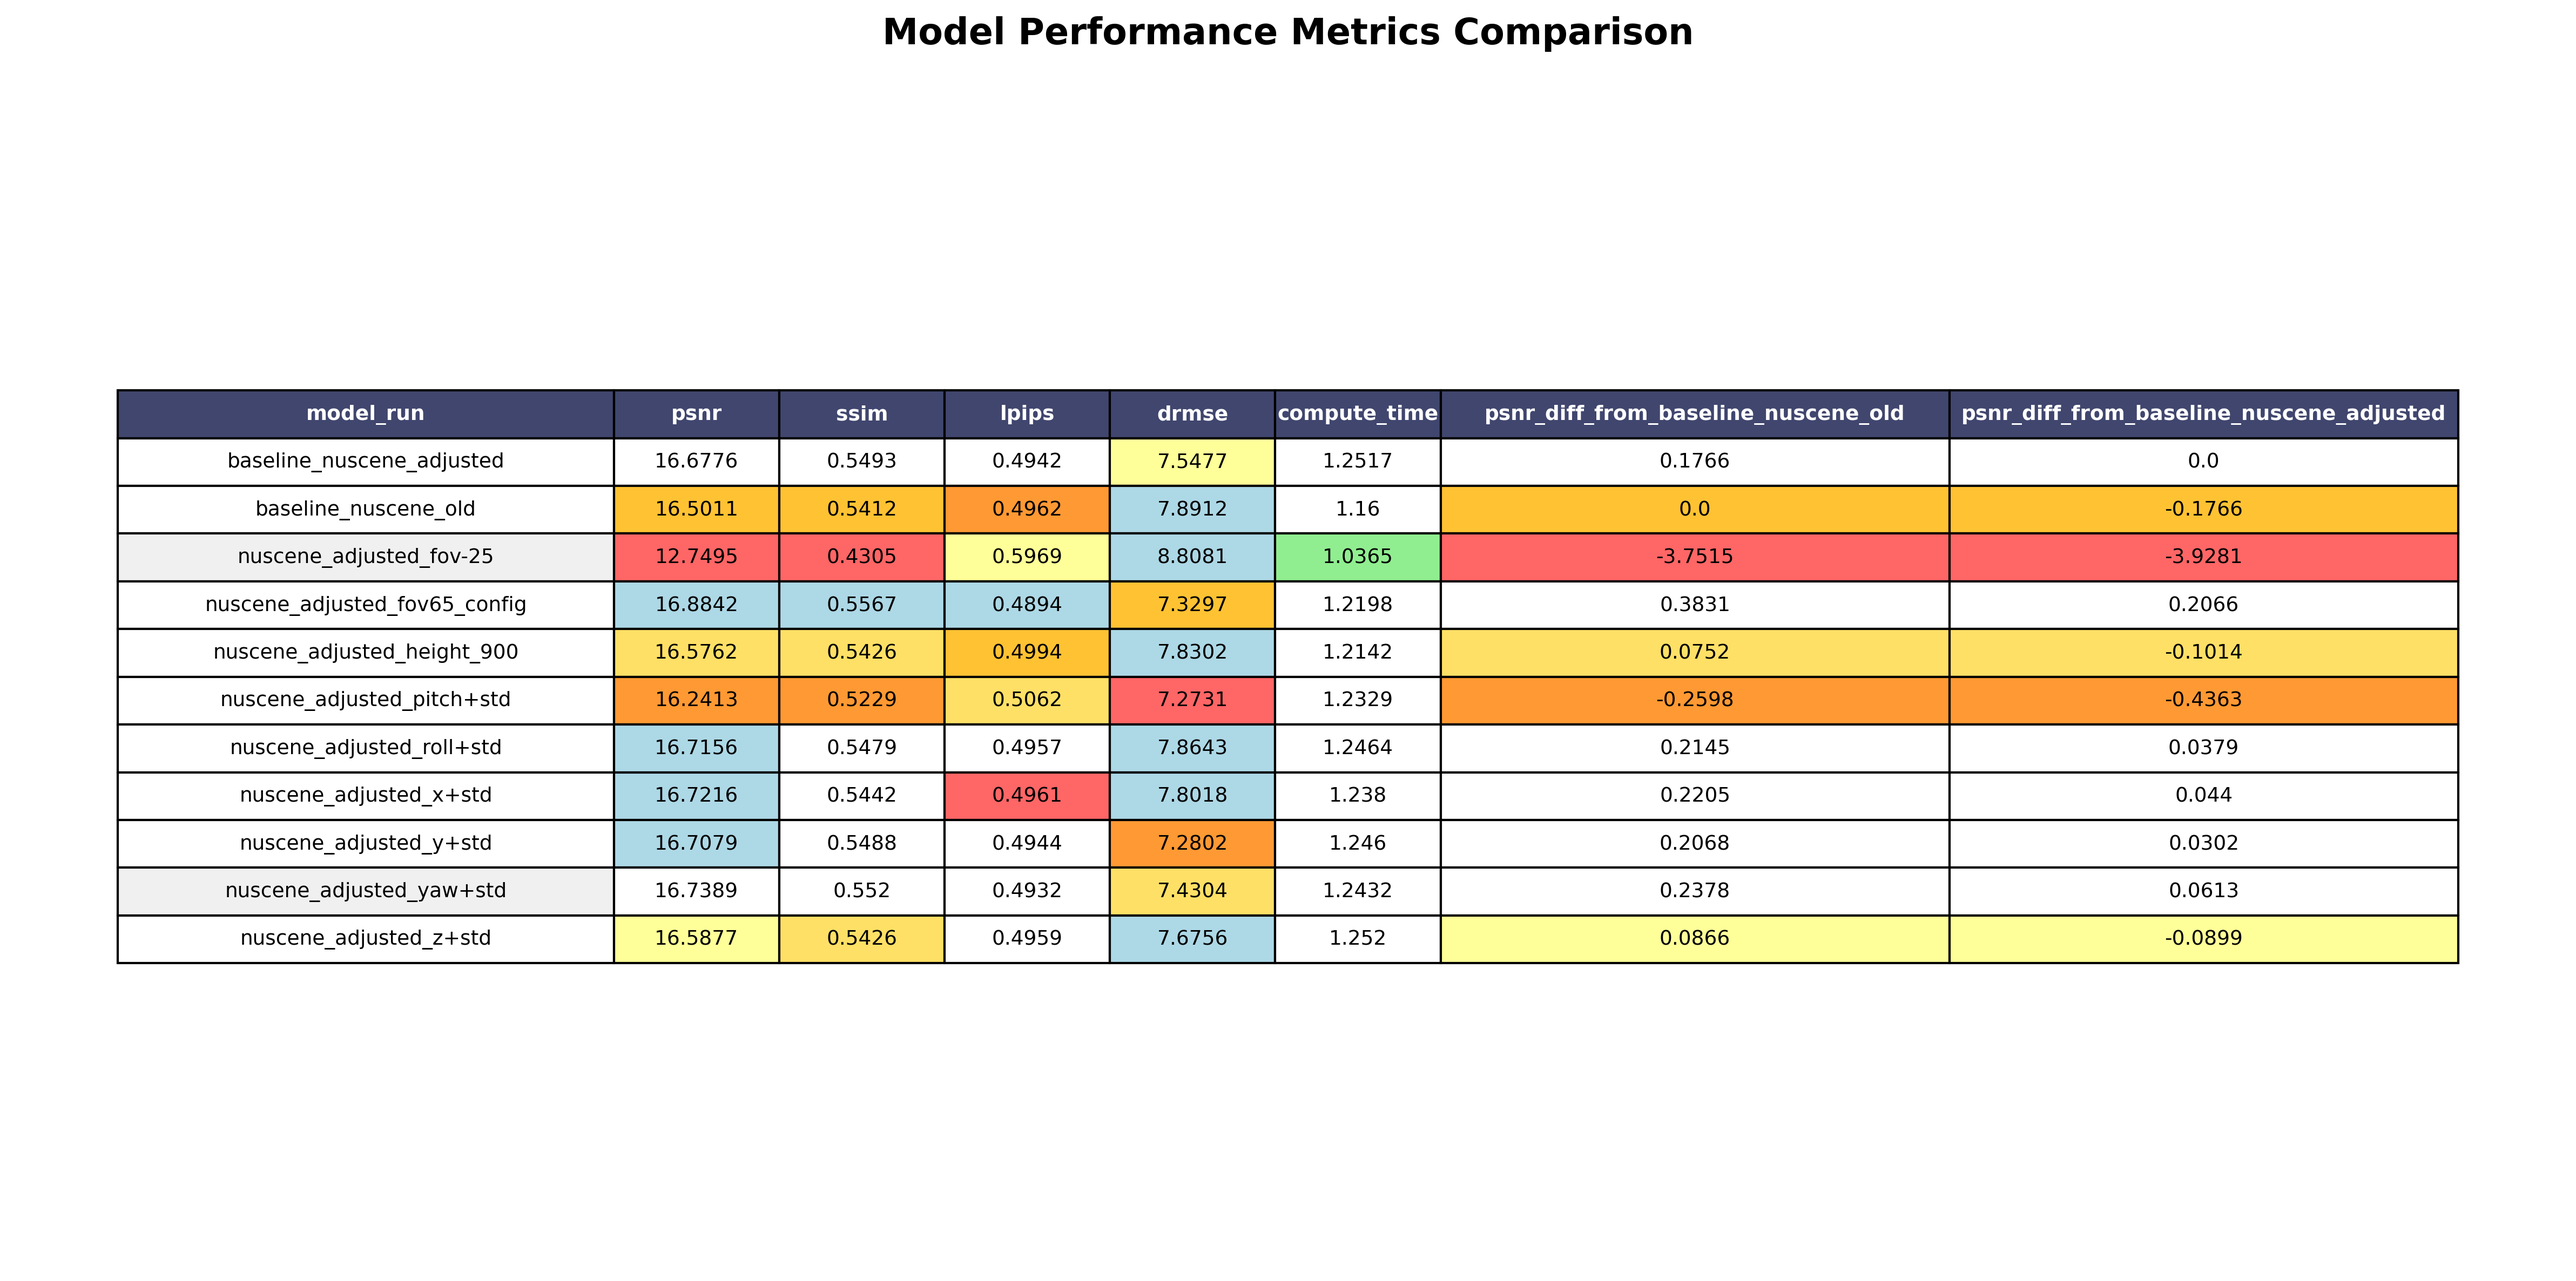
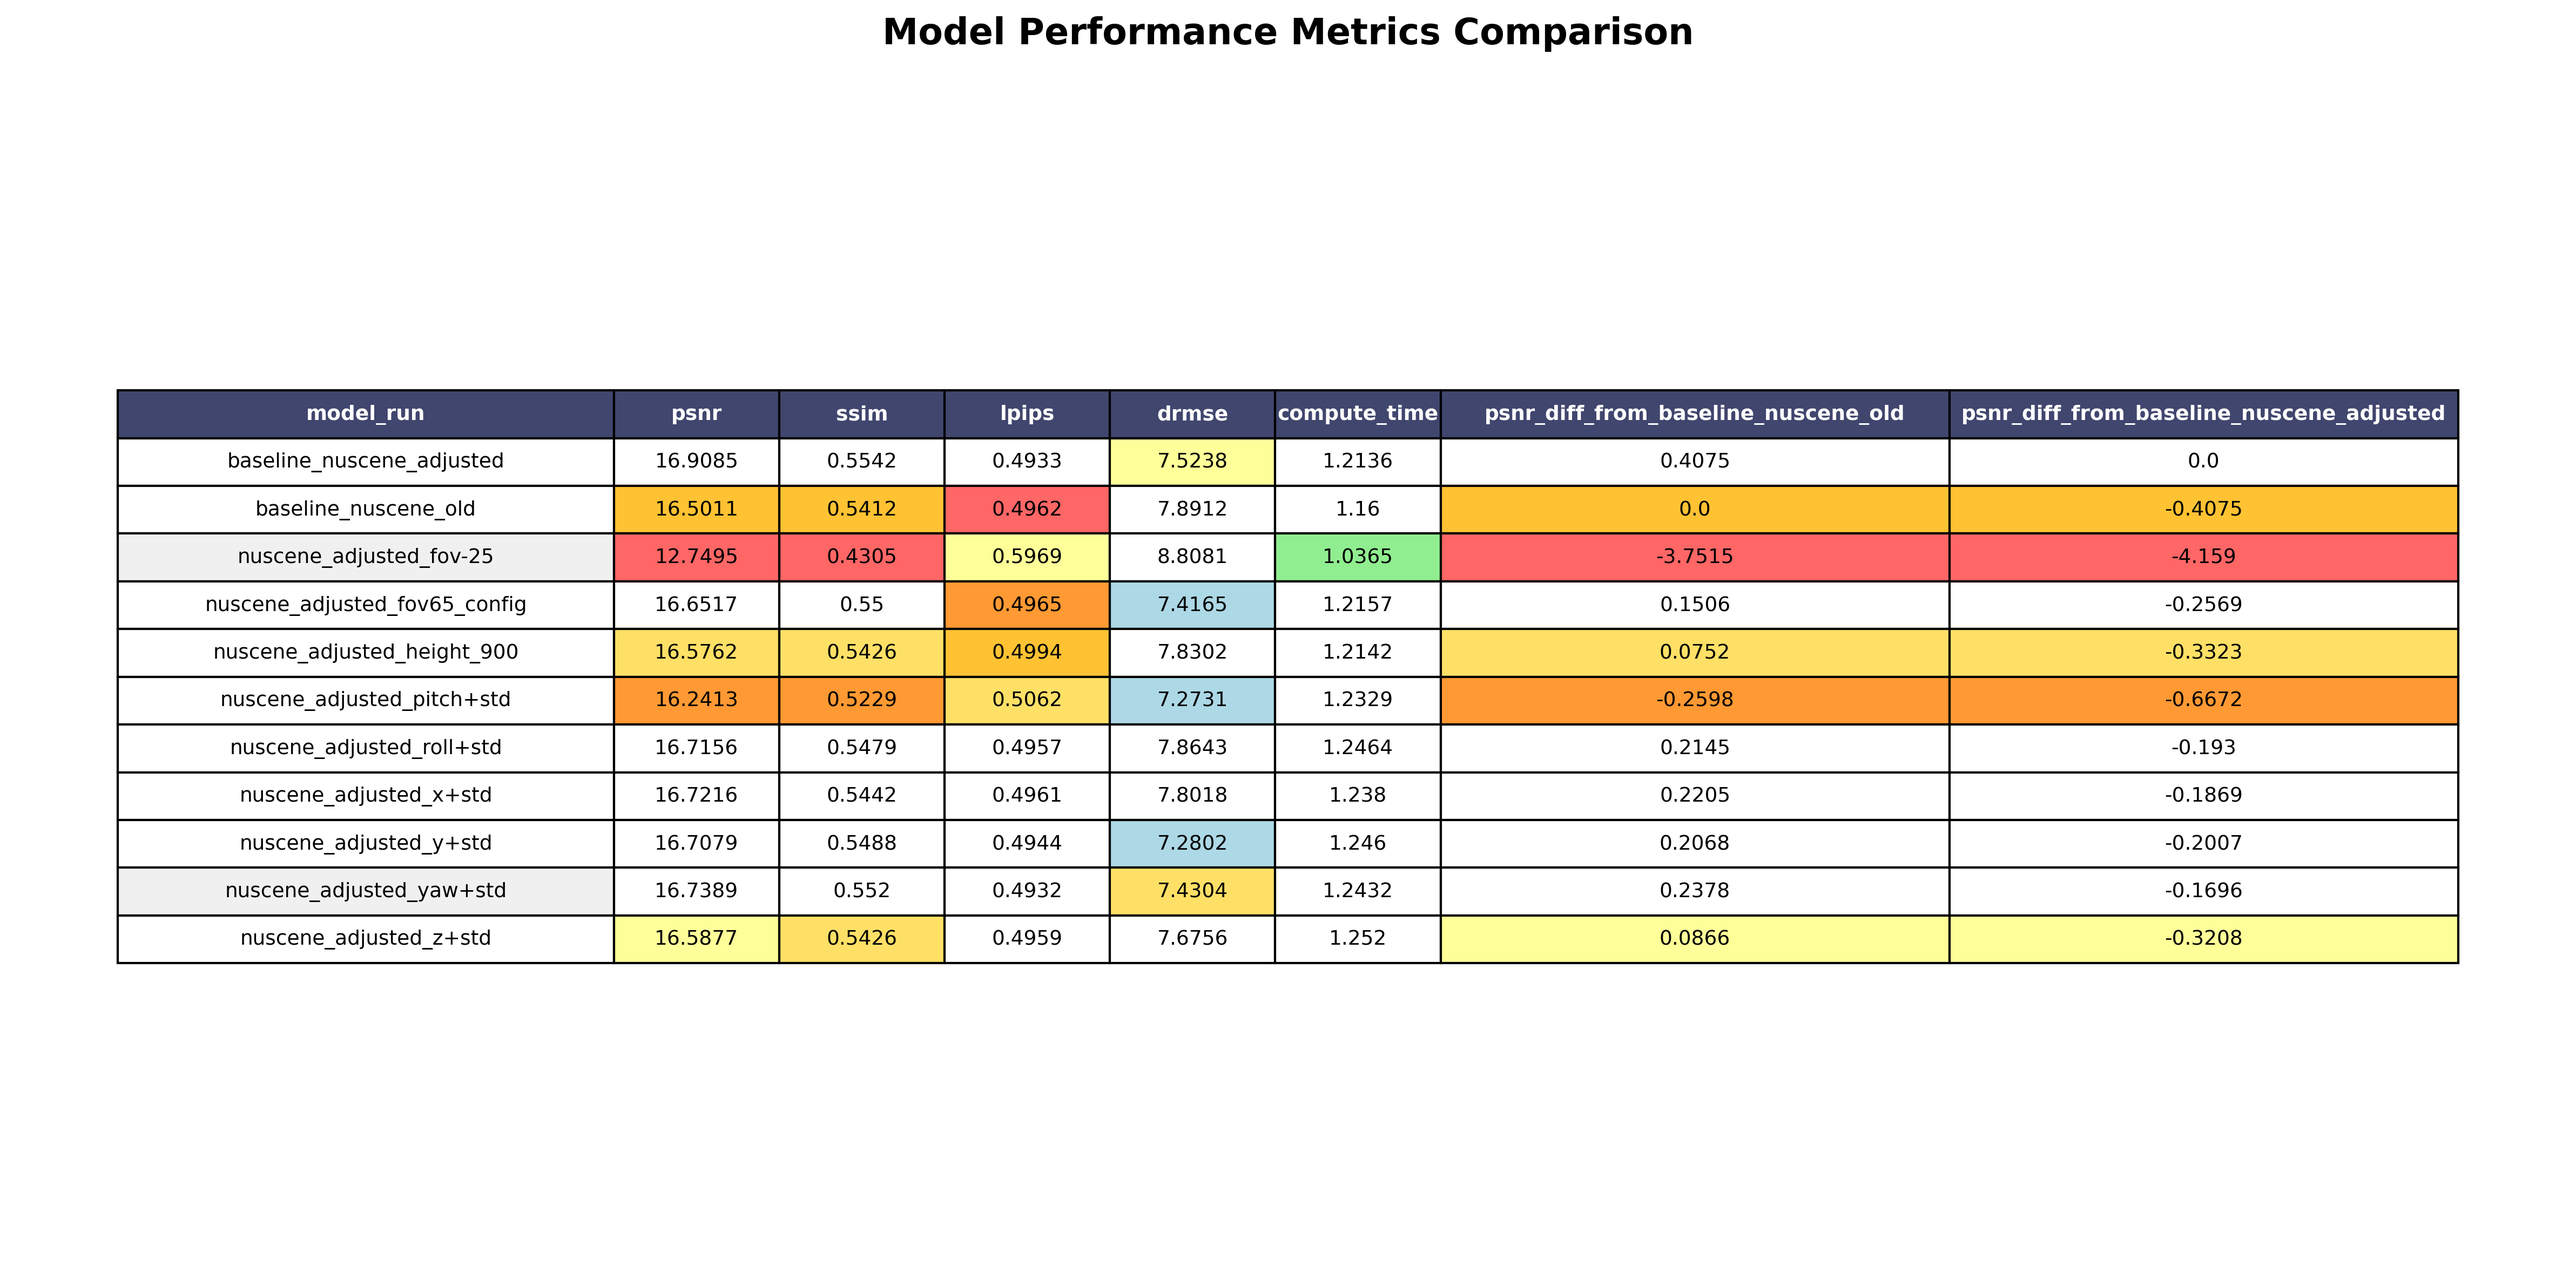
sensitivity analysis on small dataset of 10 scenes

diff --git a/camera_sensitivity_analysis/nuscenes_output_metrics_processor.py b/camera_sensitivity_analysis/nuscenes_output_metrics_processor.py
@@ -220,7 +220,7 @@ def create_table_plot(df, output_path="metrics_table.png"):
                 # Skip compute_time column for blue highlighting
                 if col_name == 'compute_time':
                     continue
-                    
+                
                 baseline_value = baseline_row[col_name]
                 
                 if pd.notna(baseline_value):
@@ -228,8 +228,11 @@ def create_table_plot(df, output_path="metrics_table.png"):
                         if pd.notna(value) and row_idx != baseline_idx:  # Don't color baseline row
                             should_highlight = False
                             
+                            # Special case for drmse: only highlight when < baseline
+                            if col_name == 'drmse':
+                                should_highlight = value < baseline_value
                             # For lpips, lower is better (highlight when < baseline)
-                            if col_name == 'lpips':
+                            elif col_name == 'lpips':
                                 should_highlight = value < baseline_value
                             # For all other metrics, higher is better (highlight when > baseline)
                             else:
